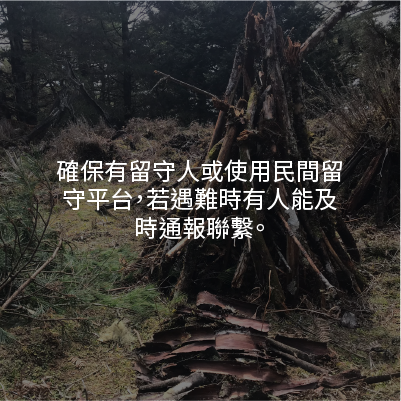
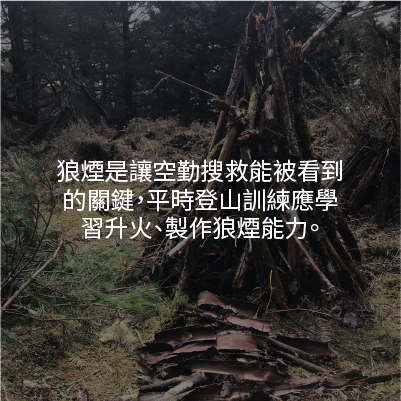
upload sos img

diff --git a/index.html b/index.html
@@ -632,8 +632,30 @@
         </div>
     </section>
     <section id="gov">
-        <div id="gov-1" class="container-fluid" style="padding-top: 15vh;">
-            <h2>體制問題</h2>
+        <div id="gov-1" class="container-fluid">
+            <div class="row">
+                <div class="col-lg-3 mb-12"></div>
+                <div class="col-lg-6 mb-12">
+                    <div class="slideanimate1">
+                        <h3>｜從登山限制到搜救制度，重重規範起到保護作用了嗎？</h3>
+                        <br>
+                        <h4>1.法規限制，逼人民違法「爬黑山」</h4>
+                        <p>臺中市、南投縣、花蓮縣、苗栗縣、屏東縣政府陸續施行登山自治條例，規範登山不得改變活動路線。
+                            <br>條例對登山路線僵化，造成山友若想攀爬其他路線無法申請，而有「爬黑山」的狀況，增加出事搜救的困難。
+                        </p>
+                        <br>
+                        <h4>2.響導證制流於形式</h4>
+                        <p>各縣市自治條例對領隊是否須具備證照規定不一，就算領有證照對登山安全保障也有限。
+                            <br>黃枝萬說明現行制度相當不足，體育署規定考試合格，且經連續三日以上山域活動實習期滿後，可取得證書，中華民國山難救助協會北部搜救隊課程光是學習研讀地圖和指北針，就要花一兩天。
+                        </p> 
+                        <br>
+                        <h4>3.縣市分治、救援踢皮球</h4>
+                        <p>搜救顯現消防地方自治、壁壘分明帶來的問題。黃枝萬指出，台灣各行政區域地理位置交錯，有時搜救上反而是非該行政區域負責的消防隊伍出動更為效率，例如花蓮出事，從台中梨山分隊出發比花蓮所需時間更短。
+                        </p>
+                    </div>
+                </div>
+                <div class="col-lg-3 mb-12"></div>
+            </div>
         </div>
     </section>
     <section id="solution">
@@ -642,8 +664,10 @@
                 <div class="col-lg-3 mb-12"></div>
                 <div class="col-lg-6 mb-12">
                     <div class="slideanimate1">
-                        <br><h3>｜提升安全意識與健全制度的長期抗戰</h3>
-                        <br><h4>身為登山者，可以這樣做</h4>
+                        <br>
+                        <h3>｜提升安全意識與健全制度的長期抗戰</h3>
+                        <br>
+                        <h4>身為登山者，可以這樣做</h4>
                         <p style="font-size: 15px;"><br>*移至卡片上方可翻看背面說明
                         </p>
                         <div class="gallery" style="padding-top: 15vh;opacity: 0;">
@@ -655,34 +679,40 @@
             </div>
         </div>
         <div id="solution-1-2" class="container-fluid">
-            <div class="owl-carousel slideanimate1"style="padding-right:10vw;padding-left:10vw;">
+            <div class="owl-carousel slideanimate1" style="padding-right:10vw;padding-left:10vw;">
                 <div id="f1_container">
                     <div id="f1_card" class="shadow">
                         <div class="front face">
-                            <img src="https://raw.githubusercontent.com/daphnesun/taiwan-mountain-disaster/main/assets/solution_2_f.png" alt=""/>
+                            <img src="https://raw.githubusercontent.com/daphnesun/taiwan-mountain-disaster/main/assets/solution_2_f.png"
+                                alt="" />
                         </div>
                         <div class="back face center">
-                            <img src="https://raw.githubusercontent.com/daphnesun/taiwan-mountain-disaster/main/assets/solution_2_b.png" alt=""/>
+                            <img src="https://raw.githubusercontent.com/daphnesun/taiwan-mountain-disaster/main/assets/solution_2_b.png"
+                                alt="" />
                         </div>
                     </div>
                 </div>
                 <div id="f1_container">
                     <div id="f1_card" class="shadow">
                         <div class="front face">
-                            <img src="https://raw.githubusercontent.com/daphnesun/taiwan-mountain-disaster/main/assets/solution_3_f.png" alt=""/>
+                            <img src="https://raw.githubusercontent.com/daphnesun/taiwan-mountain-disaster/main/assets/solution_3_f.png"
+                                alt="" />
                         </div>
                         <div class="back face center">
-                            <img src="https://raw.githubusercontent.com/daphnesun/taiwan-mountain-disaster/main/assets/solution_3_b.png" alt=""/>
+                            <img src="https://raw.githubusercontent.com/daphnesun/taiwan-mountain-disaster/main/assets/solution_3_b.png"
+                                alt="" />
                         </div>
                     </div>
                 </div>
                 <div id="f1_container">
                     <div id="f1_card" class="shadow">
                         <div class="front face">
-                            <img src="https://raw.githubusercontent.com/daphnesun/taiwan-mountain-disaster/main/assets/solution_1_f.png" alt=""/>
+                            <img src="https://raw.githubusercontent.com/daphnesun/taiwan-mountain-disaster/main/assets/solution_1_f.png"
+                                alt="" />
                         </div>
                         <div class="back face center">
-                            <img src="https://raw.githubusercontent.com/daphnesun/taiwan-mountain-disaster/main/assets/solution_1_b.png" alt=""/>
+                            <img src="https://raw.githubusercontent.com/daphnesun/taiwan-mountain-disaster/main/assets/solution_1_b.png"
+                                alt="" />
                         </div>
                     </div>
                 </div>
@@ -694,7 +724,8 @@
                 <div class="col-lg-6 mb-12">
                     <div class="slideanimate1">
                         <br>
-                        <br><h4>若不幸迷途、受困的應對方式</h4>
+                        <br>
+                        <h4>若不幸迷途、受困的應對方式</h4>
                         <div class="gallery" style="opacity: 0;">
                             <img src="assets/reason_intro.png" alt="" width="100%" height="100%">
                         </div>
@@ -704,24 +735,40 @@
             </div>
         </div>
         <div id="solution-2-2" class="container-fluid">
-            <div class="owl-carousel slideanimate1"style="padding-top:10vh;padding-right:10vw;padding-left:10vw;">
+            <div class="owl-carousel slideanimate1" style="padding-top:10vh;padding-right:10vw;padding-left:10vw;">
                 <div id="f1_container">
                     <div id="f1_card" class="shadow">
                         <div class="front face">
-                            <img src="https://images.unsplash.com/photo-1537557132238-b136d7e758ac?ixlib=rb-0.3.5&ixid=eyJhcHBfaWQiOjEyMDd9&s=d2a495234c0f5700a319077810cf04d0&auto=format&fit=crop&w=400&q=60" alt=""/>
+                            <img src="https://raw.githubusercontent.com/daphnesun/taiwan-mountain-disaster/main/assets/sos_2_f.png"
+                                alt="" />
                         </div>
                         <div class="back face center">
-                            <img src="https://images.unsplash.com/photo-1537557132238-b136d7e758ac?ixlib=rb-0.3.5&ixid=eyJhcHBfaWQiOjEyMDd9&s=d2a495234c0f5700a319077810cf04d0&auto=format&fit=crop&w=400&q=60" alt=""/>
+                            <img src="https://raw.githubusercontent.com/daphnesun/taiwan-mountain-disaster/main/assets/sos_2_b.png"
+                                alt="" />
                         </div>
                     </div>
                 </div>
                 <div id="f1_container">
                     <div id="f1_card" class="shadow">
                         <div class="front face">
-                            <img src="https://images.unsplash.com/photo-1537557132238-b136d7e758ac?ixlib=rb-0.3.5&ixid=eyJhcHBfaWQiOjEyMDd9&s=d2a495234c0f5700a319077810cf04d0&auto=format&fit=crop&w=400&q=60" alt=""/>
+                            <img src="https://raw.githubusercontent.com/daphnesun/taiwan-mountain-disaster/main/assets/sos_3_f.png"
+                                alt="" />
                         </div>
                         <div class="back face center">
-                            <img src="https://images.unsplash.com/photo-1537557132238-b136d7e758ac?ixlib=rb-0.3.5&ixid=eyJhcHBfaWQiOjEyMDd9&s=d2a495234c0f5700a319077810cf04d0&auto=format&fit=crop&w=400&q=60" alt=""/>
+                            <img src="https://raw.githubusercontent.com/daphnesun/taiwan-mountain-disaster/main/assets/sos_3_b.png"
+                                alt="" />
+                        </div>
+                    </div>
+                </div>
+                <div id="f1_container">
+                    <div id="f1_card" class="shadow">
+                        <div class="front face">
+                            <img src="https://raw.githubusercontent.com/daphnesun/taiwan-mountain-disaster/main/assets/sos_1_f.png"
+                                alt="" />
+                        </div>
+                        <div class="back face center">
+                            <img src="https://raw.githubusercontent.com/daphnesun/taiwan-mountain-disaster/main/assets/sos_1_b.png"
+                                alt="" />
                         </div>
                     </div>
                 </div>
@@ -733,7 +780,8 @@
                 <div class="col-lg-6 mb-12">
                     <div class="slideanimate1">
                         <br>
-                        <br><h4>從體制面，可以努力的方向</h4>
+                        <br>
+                        <h4>從體制面，可以努力的方向</h4>
                         <div class="gallery" style="opacity: 0;">
                             <img src="assets/reason_intro.png" alt="" width="100%" height="100%">
                         </div>
@@ -743,24 +791,28 @@
             </div>
         </div>
         <div id="solution-3-2" class="container-fluid">
-            <div class="owl-carousel slideanimate1"style="padding-top:10vh;padding-right:10vw;padding-left:10vw;">
+            <div class="owl-carousel slideanimate1" style="padding-top:10vh;padding-right:10vw;padding-left:10vw;">
                 <div id="f1_container">
                     <div id="f1_card" class="shadow">
                         <div class="front face">
-                            <img src="https://images.unsplash.com/photo-1537557132238-b136d7e758ac?ixlib=rb-0.3.5&ixid=eyJhcHBfaWQiOjEyMDd9&s=d2a495234c0f5700a319077810cf04d0&auto=format&fit=crop&w=400&q=60" alt=""/>
+                            <img src="https://images.unsplash.com/photo-1537557132238-b136d7e758ac?ixlib=rb-0.3.5&ixid=eyJhcHBfaWQiOjEyMDd9&s=d2a495234c0f5700a319077810cf04d0&auto=format&fit=crop&w=400&q=60"
+                                alt="" />
                         </div>
                         <div class="back face center">
-                            <img src="https://images.unsplash.com/photo-1537557132238-b136d7e758ac?ixlib=rb-0.3.5&ixid=eyJhcHBfaWQiOjEyMDd9&s=d2a495234c0f5700a319077810cf04d0&auto=format&fit=crop&w=400&q=60" alt=""/>
+                            <img src="https://images.unsplash.com/photo-1537557132238-b136d7e758ac?ixlib=rb-0.3.5&ixid=eyJhcHBfaWQiOjEyMDd9&s=d2a495234c0f5700a319077810cf04d0&auto=format&fit=crop&w=400&q=60"
+                                alt="" />
                         </div>
                     </div>
                 </div>
                 <div id="f1_container">
                     <div id="f1_card" class="shadow">
                         <div class="front face">
-                            <img src="https://images.unsplash.com/photo-1537557132238-b136d7e758ac?ixlib=rb-0.3.5&ixid=eyJhcHBfaWQiOjEyMDd9&s=d2a495234c0f5700a319077810cf04d0&auto=format&fit=crop&w=400&q=60" alt=""/>
+                            <img src="https://images.unsplash.com/photo-1537557132238-b136d7e758ac?ixlib=rb-0.3.5&ixid=eyJhcHBfaWQiOjEyMDd9&s=d2a495234c0f5700a319077810cf04d0&auto=format&fit=crop&w=400&q=60"
+                                alt="" />
                         </div>
                         <div class="back face center">
-                            <img src="https://images.unsplash.com/photo-1537557132238-b136d7e758ac?ixlib=rb-0.3.5&ixid=eyJhcHBfaWQiOjEyMDd9&s=d2a495234c0f5700a319077810cf04d0&auto=format&fit=crop&w=400&q=60" alt=""/>
+                            <img src="https://images.unsplash.com/photo-1537557132238-b136d7e758ac?ixlib=rb-0.3.5&ixid=eyJhcHBfaWQiOjEyMDd9&s=d2a495234c0f5700a319077810cf04d0&auto=format&fit=crop&w=400&q=60"
+                                alt="" />
                         </div>
                     </div>
                 </div>

diff --git a/css/index.css b/css/index.css
@@ -156,10 +156,7 @@ body {
 }
 
 /* story */
-#story-1,
-#fact-1,
-#fact-3,
-#reason-1 {
+#story-1,#fact-1,#fact-3,#reason-1,#gov-1,#solution-4 {
     background-color: #000;
     height: 100vh;
     font-size: 18px;
@@ -263,13 +260,6 @@ body {
 }
 
 /* gov */
-#gov-1 {
-    background-color: #e6e6e6;
-    min-height: 100vh;
-    font-size: 18px;
-    color: #000;
-    /* box-shadow:0px -50px 5px rgba(0, 0, 0, 0.5);     */
-}
 
 /* solution */
 #solution-1-1{
